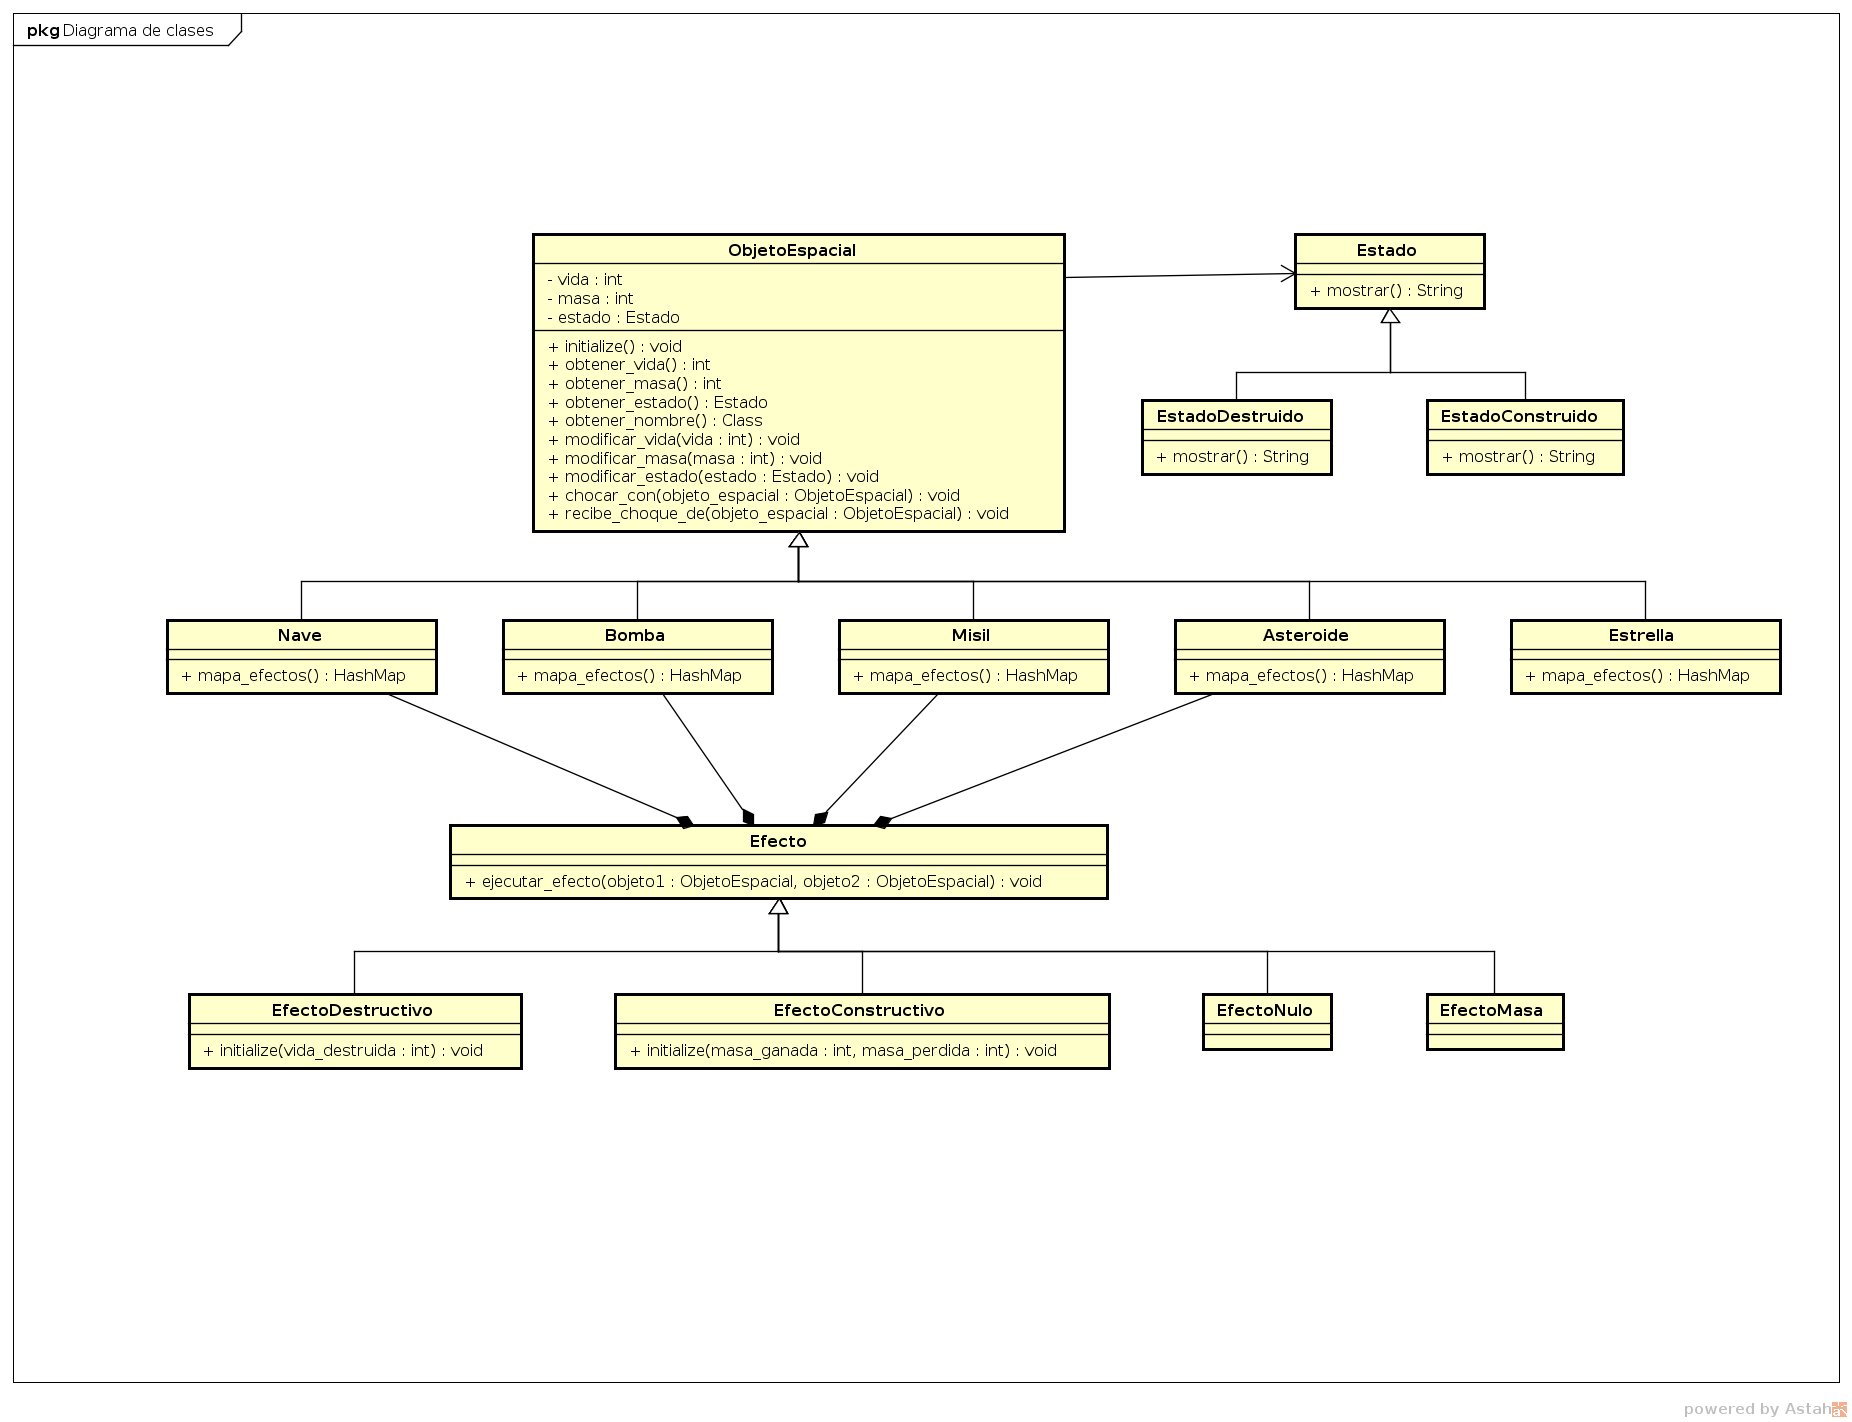
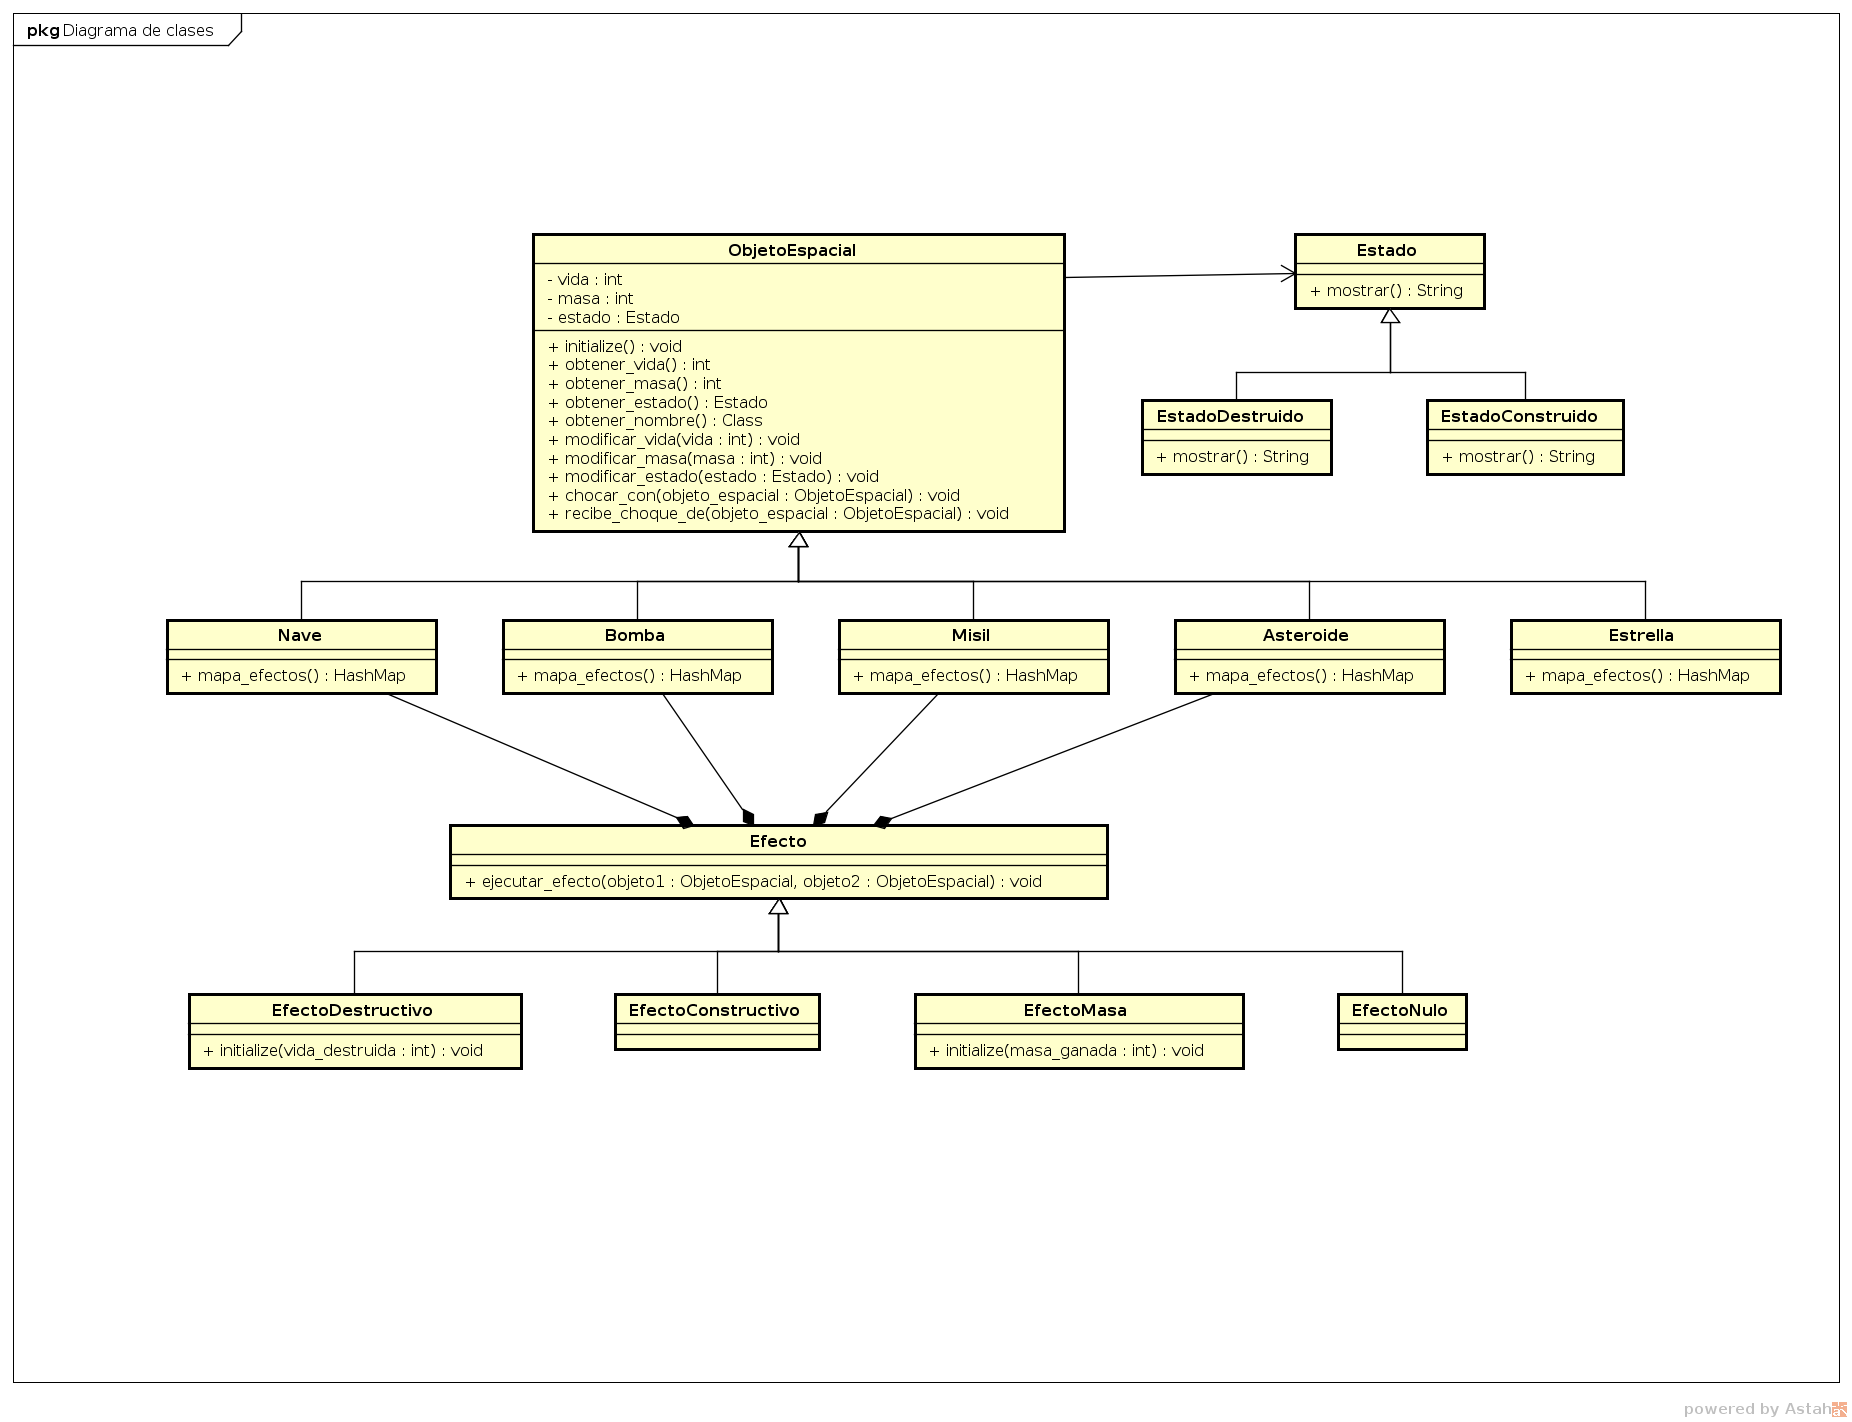
Una Nave (vida=100, masa=100) choca con una Estrella (vida=50, masa=50) expect Nave (vida=150, masa=100)

Changed region(s): [[0.3386, 0.6807, 0.8618, 0.7736]]

diff --git a/model/dominio/objeto_espacial.rb b/model/dominio/objeto_espacial.rb
@@ -46,8 +46,17 @@ class ObjetoEspacial
     if self.obtener_vida != 0 && objeto_espacial.obtener_vida != 0
       mapa_efectos
       objeto_espacial.mapa_efectos
-      objeto_espacial.recibe_choque_de(self)
-      self.recibe_choque_de(objeto_espacial)
+      
+      objeto_espacial_aux = objeto_espacial.class.new
+      objeto_espacial_aux.modificar_vida(objeto_espacial.obtener_vida)
+      objeto_espacial_aux.modificar_masa(objeto_espacial.obtener_masa)
+
+      self_aux = self.class.new
+      self_aux.modificar_vida(self.obtener_vida)
+      self_aux.modificar_masa(self.obtener_masa)
+      
+      objeto_espacial.recibe_choque_de(self_aux)
+      self.recibe_choque_de(objeto_espacial_aux)
     end
   end
   

diff --git a/model/efectos/efecto_masa.rb b/model/efectos/efecto_masa.rb
@@ -1,14 +1,10 @@
 class EfectoMasa
   
-  def initialize(masa_ganada, masa_perdida)
+  def initialize(masa_ganada)
   	@masa_ganada = masa_ganada
-  	@masa_perdida = masa_perdida
   end
   
   def ejecutar_efecto(objeto1,objeto2)
-    masa_objeto2 = objeto1.obtener_masa + ((objeto2.obtener_masa * @masa_ganada) /100)
-    masa_objeto1 = objeto1.obtener_masa - ((objeto2.obtener_masa * @masa_perdida) /100)
-    objeto1.modificar_masa(masa_objeto1)
-    objeto2.modificar_masa(masa_objeto2)
+    objeto1.modificar_masa(objeto1.obtener_masa + ((objeto2.obtener_masa * @masa_ganada) /100))
   end
 end

diff --git a/model/dominio/nave.rb b/model/dominio/nave.rb
@@ -6,7 +6,7 @@ require_relative '../efectos/efecto_constructivo'
 class Nave < ObjetoEspacial
   
   def mapa_efectos
-    @hash_map = {Nave => EfectoDestructivo.new(100), Misil => EfectoDestructivo.new(80), Bomba => EfectoDestructivo.new(50), Asteroide => EfectoMasa.new(10,50), Estrella => EfectoConstructivo.new}
+    @hash_map = {Nave => EfectoDestructivo.new(100), Misil => EfectoDestructivo.new(80), Bomba => EfectoDestructivo.new(50), Asteroide => EfectoMasa.new(-50), Estrella => EfectoConstructivo.new}
   end
 
 end

diff --git a/spec/nave_spec.rb b/spec/nave_spec.rb
@@ -56,11 +56,11 @@ describe 'Nave' do
     expect(nave.obtener_masa).to eq 50
   end
   
-  it 'deberia retornar 280 cuando nave choca_con(estrella)' do
+  it 'deberia retornar 200 cuando nave choca_con(estrella)' do
     nave = Nave.new
     estrella = Estrella.new
     nave.chocar_con(estrella)
-    expect(nave.obtener_masa).to eq 200
+    expect(nave.obtener_vida).to eq 200
   end
 
   it 'deberia retornar 0 cuando nave choca_con(nave1) nave1 pierde 100 unidades' do

diff --git a/model/dominio/asteroide.rb b/model/dominio/asteroide.rb
@@ -5,7 +5,7 @@ require_relative '../efectos/efecto_masa'
 class Asteroide < ObjetoEspacial
   
   def mapa_efectos
-  	@hash_map = {Asteroide => EfectoNulo.new, Bomba => EfectoNulo.new, Misil => EfectoNulo.new, Nave => EfectoMasa.new(0,0), Estrella => EfectoNulo.new}
+  	@hash_map = {Asteroide => EfectoNulo.new, Bomba => EfectoNulo.new, Misil => EfectoNulo.new, Nave => EfectoMasa.new(10), Estrella => EfectoNulo.new}
   end
   
 end

diff --git a/spec/ejemplos_spec.rb b/spec/ejemplos_spec.rb
@@ -82,4 +82,14 @@ describe 'Ejemplos' do
     bomba.chocar_con(asteroide)
     expect(asteroide.obtener_vida).to eq 30
   end
+  
+  it 'Una Nave (vida=100, masa=100) choca con una Estrella (vida=50, masa=50)' do
+    nave = Nave.new
+    estrella = Estrella.new
+    estrella.modificar_vida(50)
+    estrella.modificar_masa(50)
+    nave.chocar_con(estrella)
+    expect(nave.obtener_vida).to eq 150
+  end
+  
 end

diff --git a/model/efectos/efecto_constructivo.rb b/model/efectos/efecto_constructivo.rb
@@ -1,5 +1,5 @@
 class EfectoConstructivo
   def ejecutar_efecto(objeto1, objeto2)
-    objeto1.modificar_masa(objeto1.obtener_masa + objeto2.obtener_masa)
+    objeto1.modificar_vida(objeto1.obtener_vida + objeto2.obtener_vida)
   end
 end
